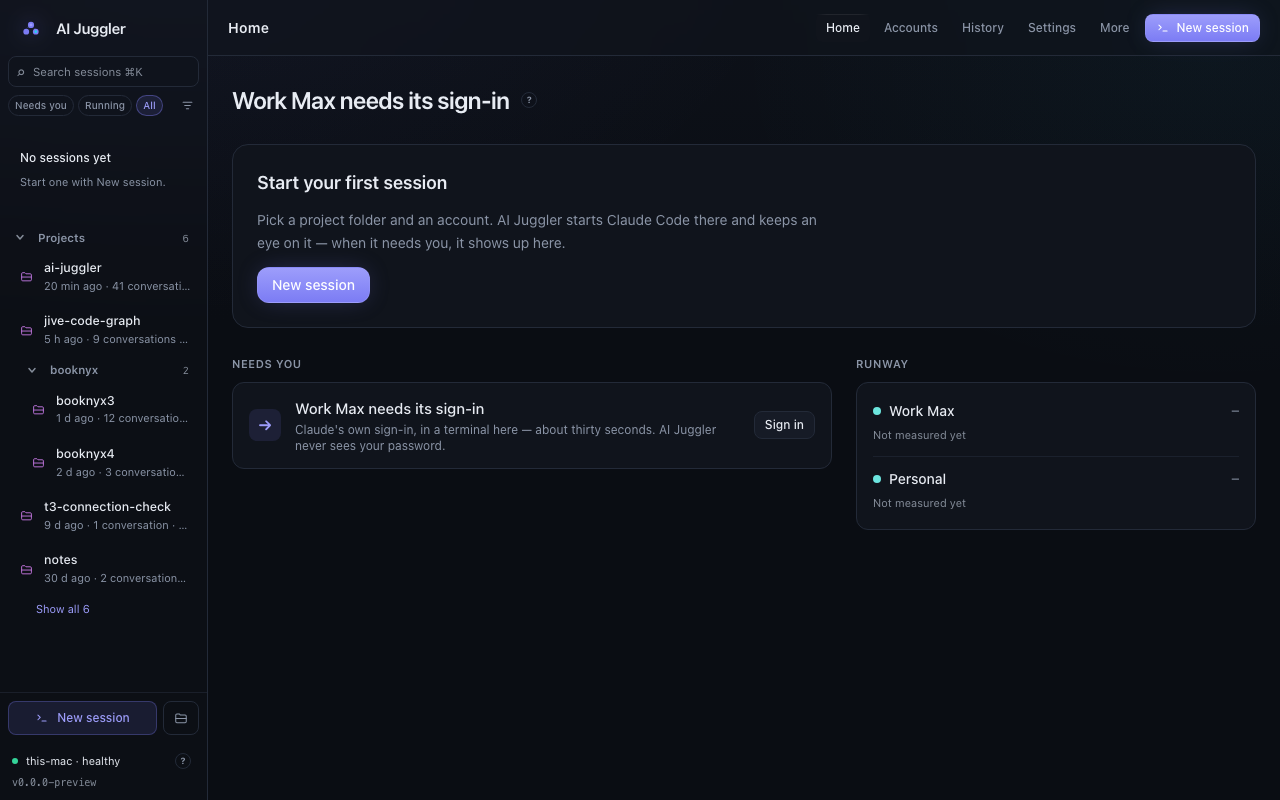
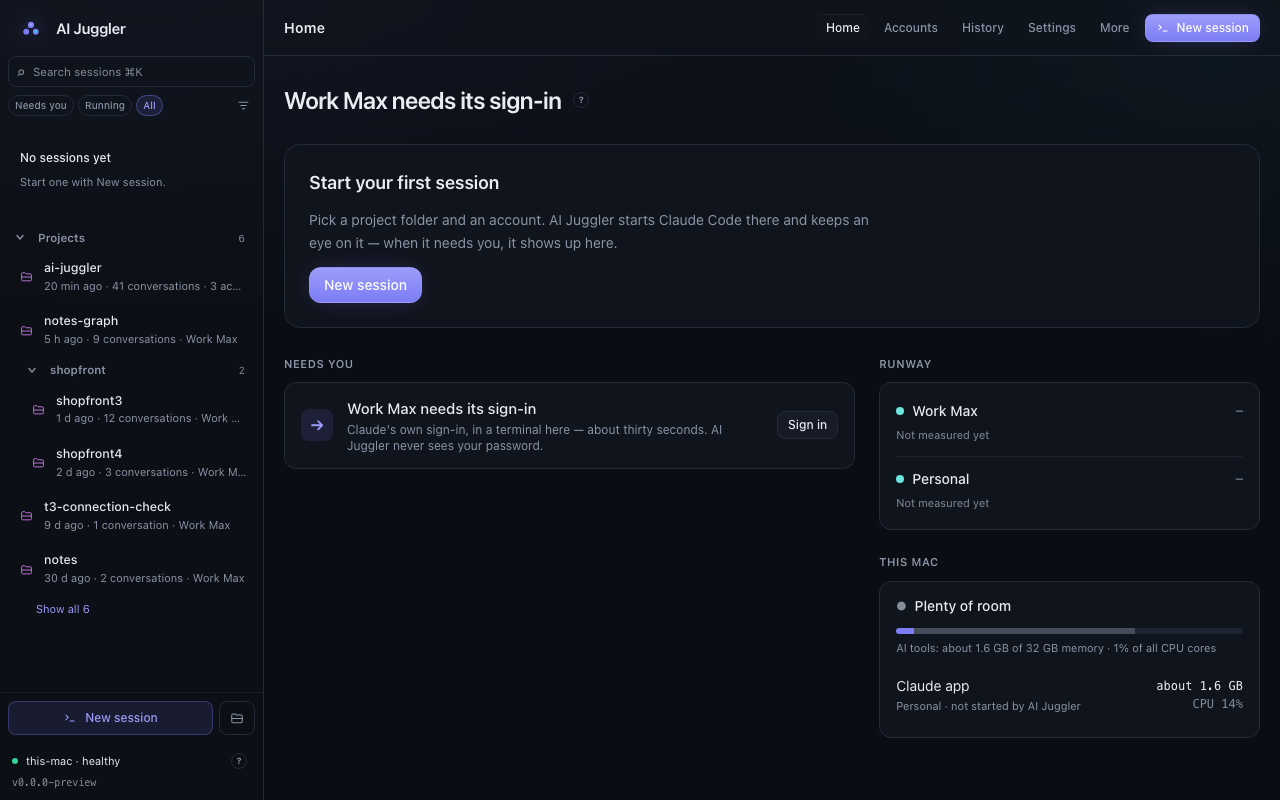
test(visual): rail-projects fixture uses made-up project names (#124)
The rail-projects fixture (#84) copied project names from a real setup. They
are now fictional ("shopfront", "notes-graph"), and the gallery captures are
regenerated from it. Two 0.0.11 walk screenshots that showed the same names
are removed; the walk notes say why.

diff --git a/ui/tests/visual/rail-projects.spec.ts b/ui/tests/visual/rail-projects.spec.ts
@@ -34,9 +34,9 @@ const historyOnly: FixtureSet = {
   ...readyHome,
   projects: [
     project("p1", "ai-juggler", "/Users/dev/Dev/ai-juggler", { history_sessions: 41, accounts_used: ["Work Max", "Personal", "Side"], history_last_used_ms: T0 - 20 * 60_000, repo: "github.com/you/ai-juggler" }),
-    project("p2", "booknyx3", "/Users/dev/Dev/booknyx/booknyx3", { history_sessions: 12, history_last_used_ms: T0 - 26 * H, repo: "github.com/you/booknyx" }),
-    project("p3", "booknyx4", "/Users/dev/Dev/booknyx/booknyx4", { history_sessions: 3, history_last_used_ms: T0 - 50 * H, repo: "github.com/you/booknyx" }),
-    project("p4", "jive-code-graph", "/Users/dev/Dev/jive-code-graph", { history_sessions: 9, history_last_used_ms: T0 - 5 * H }),
+    project("p2", "shopfront3", "/Users/dev/Dev/shopfront/shopfront3", { history_sessions: 12, history_last_used_ms: T0 - 26 * H, repo: "github.com/you/shopfront" }),
+    project("p3", "shopfront4", "/Users/dev/Dev/shopfront/shopfront4", { history_sessions: 3, history_last_used_ms: T0 - 50 * H, repo: "github.com/you/shopfront" }),
+    project("p4", "notes-graph", "/Users/dev/Dev/notes-graph", { history_sessions: 9, history_last_used_ms: T0 - 5 * H }),
     project("p5", "t3-connection-check", "/Users/dev/Documents/scratch/t3-connection-check", { history_sessions: 1, history_last_used_ms: T0 - 9 * 24 * H }),
     project("p6", "notes", "/Users/dev/notes", { history_sessions: 2, history_last_used_ms: T0 - 30 * 24 * H }),
     project("p7", "old-site", "/Users/dev/old-site", { history_sessions: 1, history_last_used_ms: T0 - 90 * 24 * H }),
@@ -77,7 +77,7 @@ for (const theme of ["dark", "light"] as const) {
     // Clones of one repository sit under it.
     const repo = page.getByTestId("rail-repo-group");
     await expect(repo).toHaveCount(1);
-    await expect(repo).toContainText("booknyx");
+    await expect(repo).toContainText("shopfront");
     await expect(repo.getByTestId("rail-history-project")).toHaveCount(2);
     // Five groups, then Show all.
     await expect(page.getByTestId("rail-history-all")).toHaveText("Show all 6");

diff --git a/docs/qa/evidence/walks/2026-10-21-0.0.11.md b/docs/qa/evidence/walks/2026-10-21-0.0.11.md
@@ -101,12 +101,12 @@ Status: **fixed** = in a PR below; **question** = for the coordinator
 
 ### F8 — A history-only project says it has no sessions — question (Q2)
 
-- **Did**: rail › Projects › booknyx3 ("1 d ago · 12 conversations · Work
+- **Did**: rail › Projects › shopfront3 ("1 d ago · 12 conversations · Work
   Max").
 - **Expected**: the project's history, or at least the same line.
 - **Happened**: "No sessions in this project yet · Start first session",
   and nothing about the 12 conversations or who worked there.
-- Screenshot: [j3-05-history-project.jpg](2026-10-21-0.0.11/j3-05-history-project.jpg)
+- Screenshot: removed 2026-10-21 (it showed fixture project names copied from a real setup; the fixture now uses neutral names)
 
 ### F9 — Codex accounts show quota windows that never fill — question (Q3)
 
@@ -147,7 +147,7 @@ Status: **fixed** = in a PR below; **question** = for the coordinator
   session), reloaded: folds are remembered.
 - **Happened**: the folded header shows only "ai-juggler 5"; nothing says
   two of them need you (the "Needs you 5" chip still counts them).
-- Screenshot: [j3-04-rail-folded.png](2026-10-21-0.0.11/j3-04-rail-folded.png)
+- Screenshot: removed 2026-10-21 (same reason)
 
 ### F13 — Second launch (real app) — as promised; one edge — question (Q8)
 
